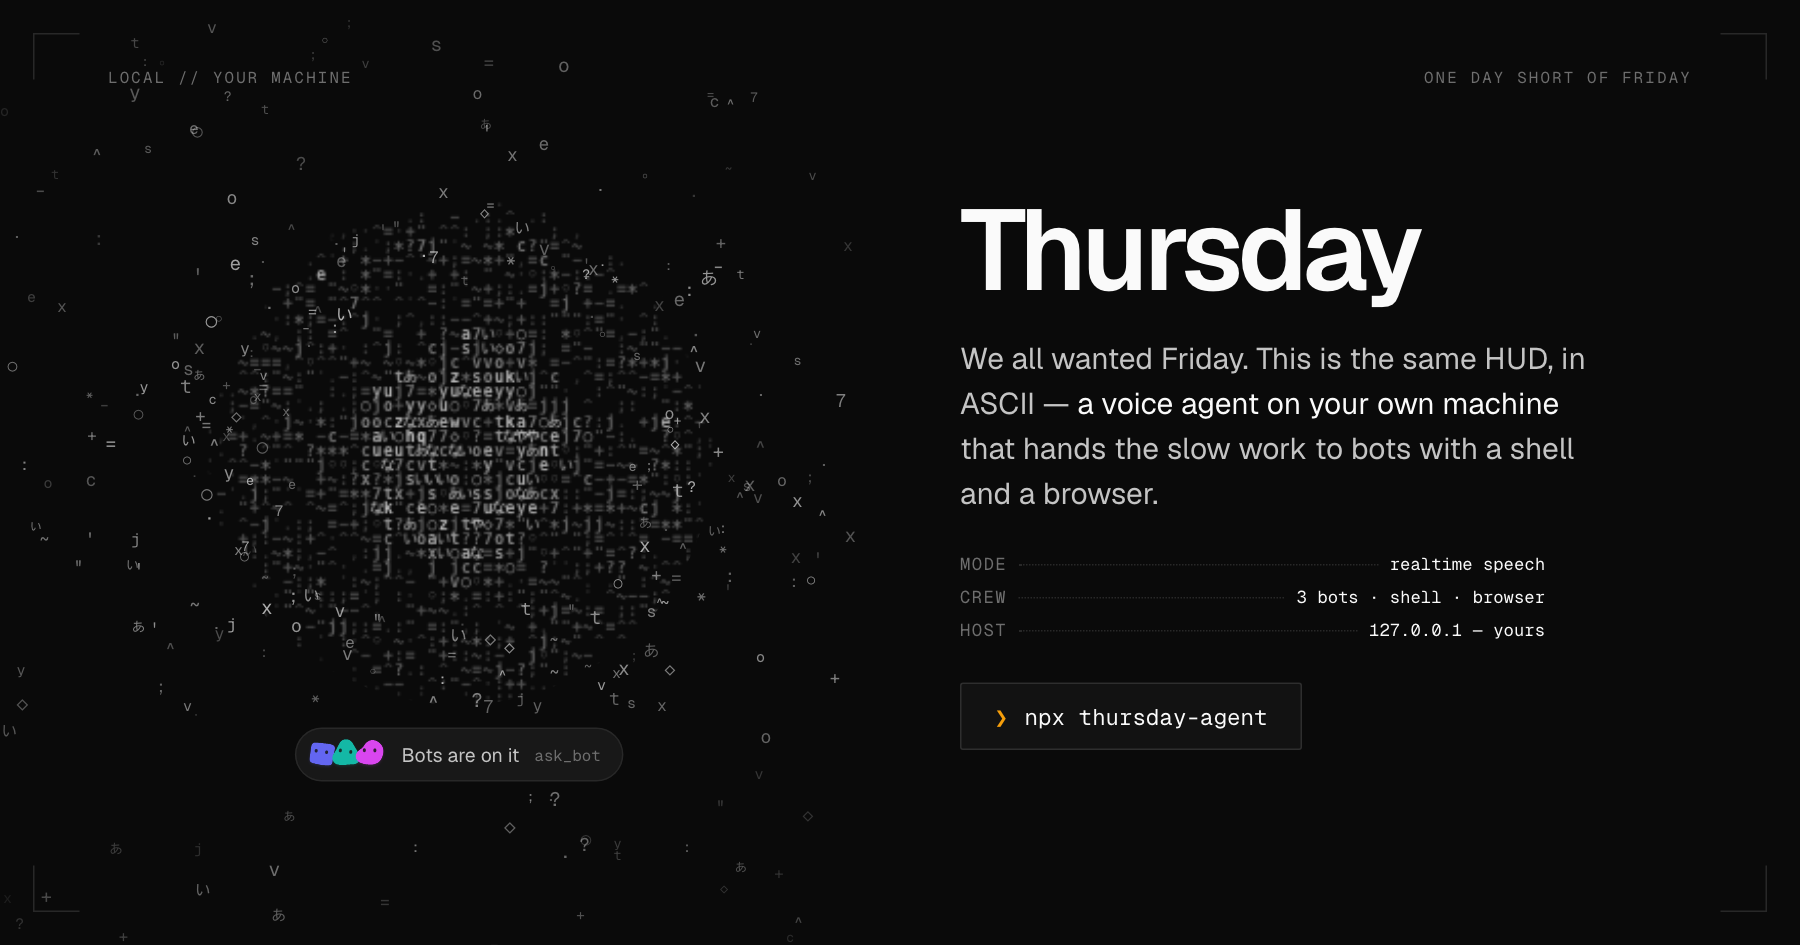
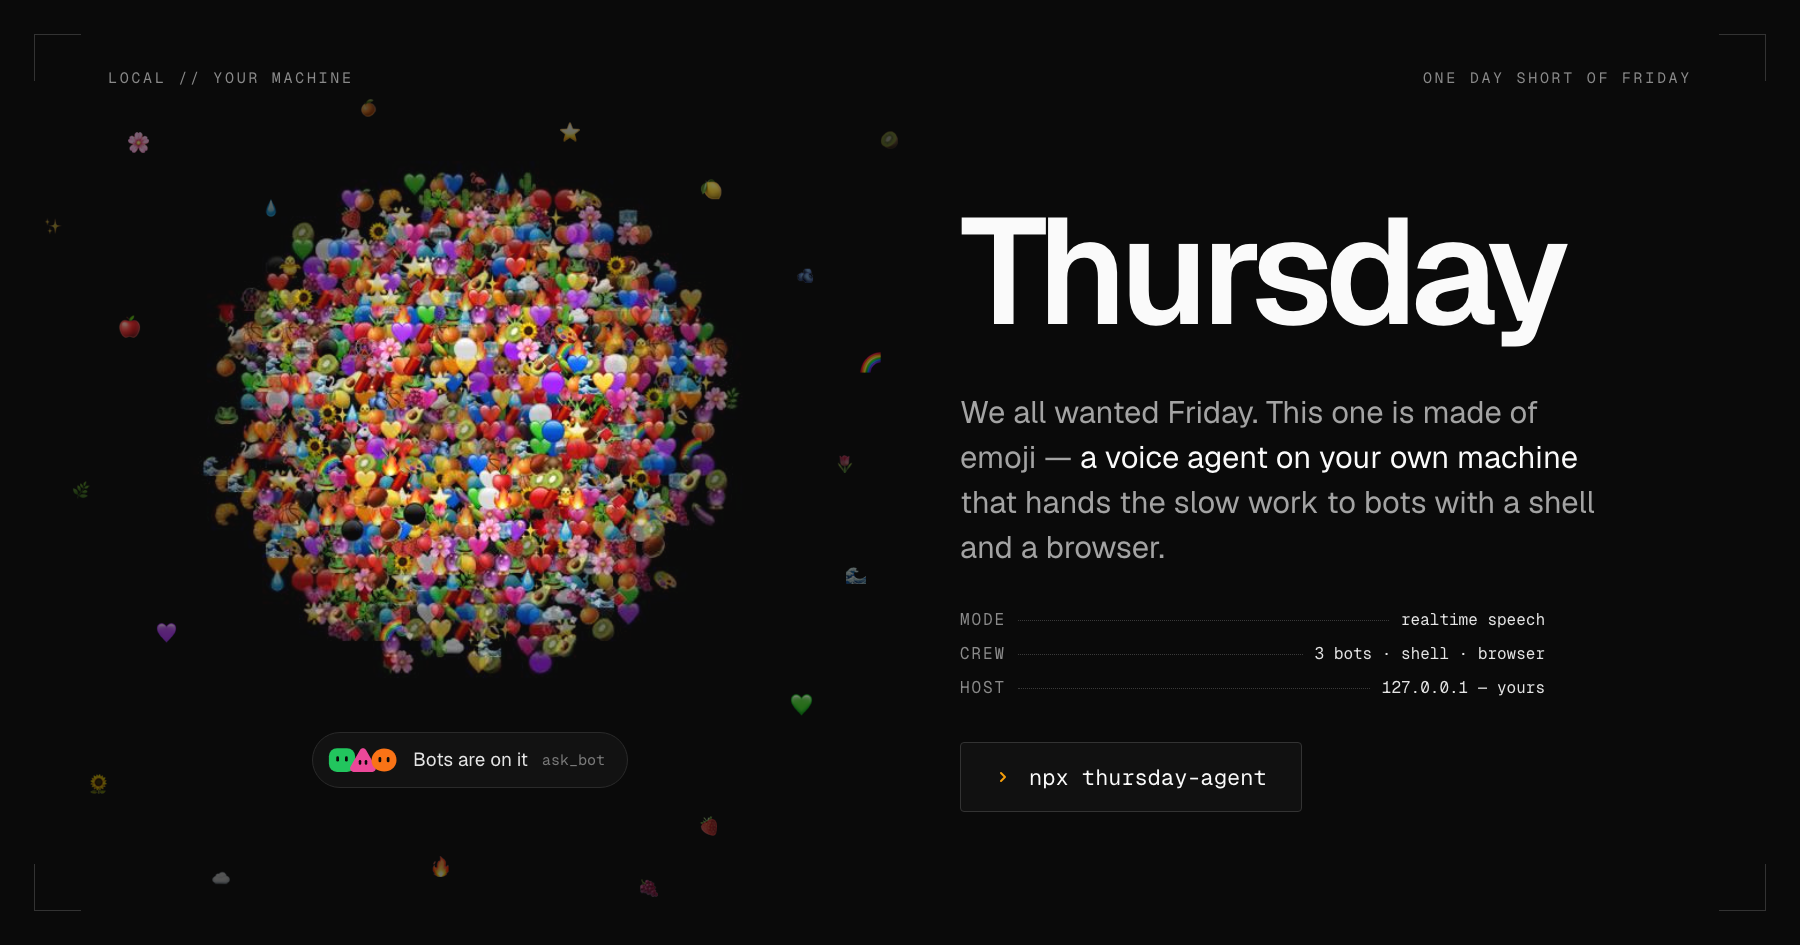
docs: redraw the three README artboards for the emoji face
hero.png said the HUD was ASCII, machine.png that a bot stops at the
password, and keeps-going.png that a stopped job waits to be picked up
by hand. Redrawn in the same frame: the emoji orb in the hero, a
checkout left open with Pay untouched, and jobs that pick themselves
back up. The hero leads both READMEs again; the face screenshot moves
into the section about her face.

diff --git a/README.md b/README.md
@@ -1,11 +1,6 @@
 <div align="center">
 
-<picture>
-  <source media="(prefers-color-scheme: dark)" srcset="docs/images/face-dark.png">
-  <img src="docs/images/face-light.png" alt="Thursday's face: an orb of emoji that swells when she speaks" width="320">
-</picture>
-
-# Thursday
+<img src="docs/images/hero.png" alt="Thursday — an open-source voice agent with a face made of emoji" width="760">
 
 ### Everyone wanted Friday. This is Thursday.
 
@@ -41,6 +36,13 @@ You never watched a spinner. You never stopped talking.
 <br>
 
 ## She has a face, and it is made of emoji
+
+<div align="center">
+<picture>
+  <source media="(prefers-color-scheme: dark)" srcset="docs/images/face-dark.png">
+  <img src="docs/images/face-light.png" alt="Thursday's face: an orb of emoji that swells when she speaks" width="280">
+</picture>
+</div>
 
 Hundreds of them, packed into one orb. When she talks, the rim swells with her voice and every syllable shakes a few loose — you can tell she is speaking with the sound off.
 
@@ -95,6 +97,8 @@ Not an API sandbox. **Your computer** — down to the Chrome you are already sig
 - **Its own memory** — what it learned doing the job, kept as files you can open on its page
 - **Each other** — a bot hands a part of its job to the bot that exists for it
 
+![A bot gets your shell, your skills and a real browser — and leaves the checkout for you](docs/images/machine.png)
+
 It signs in the way you would let it: a session it kept, your own Chrome, you in the window it opened, or the login you gave it — after asking. And there is one button it never presses: **pay.** It takes the order to the last screen, leaves it open in front of you, and tells you what it buys and for how much.
 
 <br>
@@ -112,6 +116,8 @@ Those three come with her. Two more are ready-made in Settings — **Insta** dra
 ## Hang up. It keeps going.
 
 The job is not in the call. It runs on the server and the screen is a projection of it — so hang up mid-sentence, open a new tab, come back in ten minutes. She tells you what came in, or rings you, if you let her. The tab says it too: `(2) Thursday` means two things are waiting on you.
+
+![The call ends at 0:12; the job runs to 2:41](docs/images/keeps-going.png)
 
 Close the app and it does the honest thing: ten seconds with no browser on it and every running job stops where it stands. **Nothing spends your keys while you are not looking.** Open it again and they pick themselves back up — the same after a restart, a `Ctrl+C`, or a model that went quiet for a minute.
 
